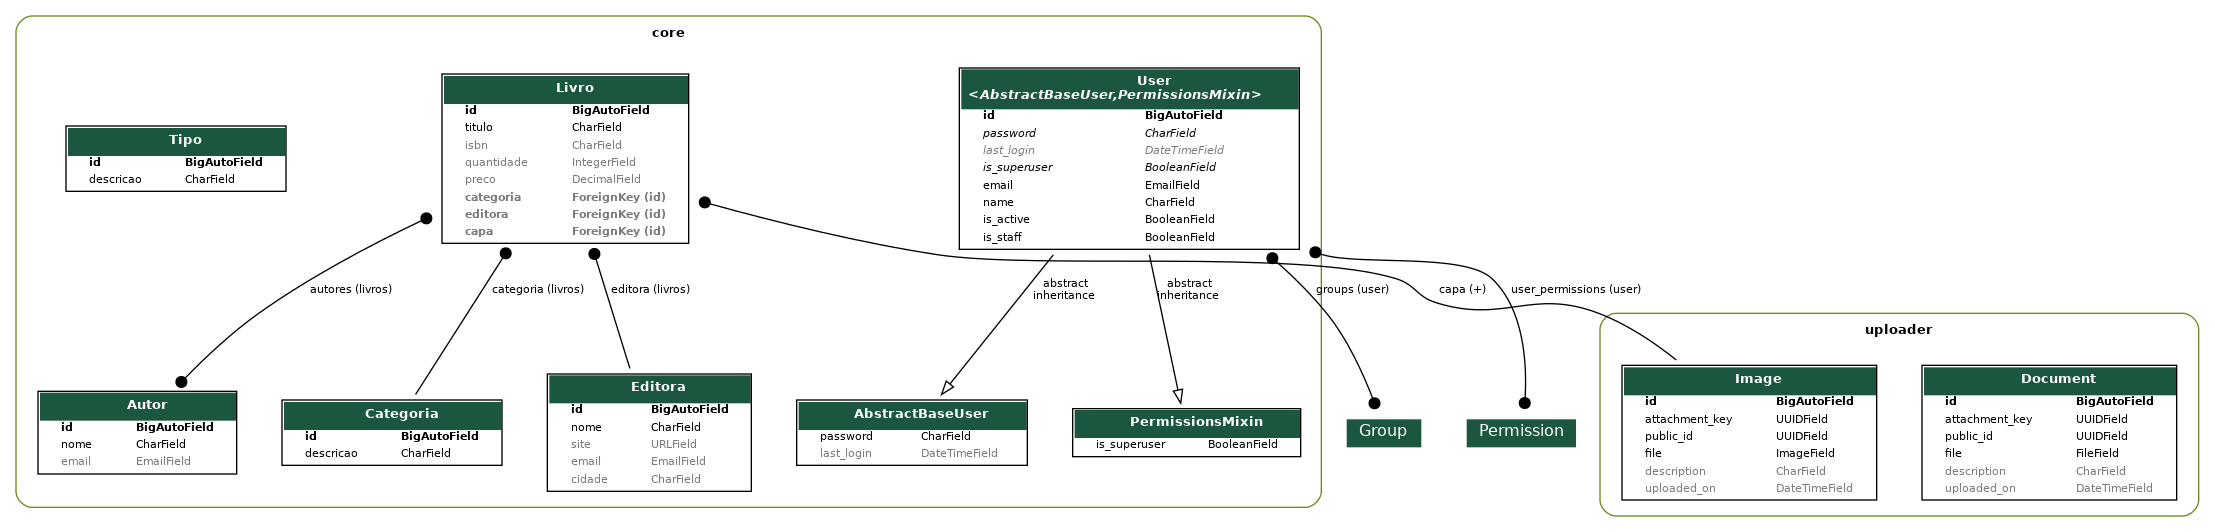
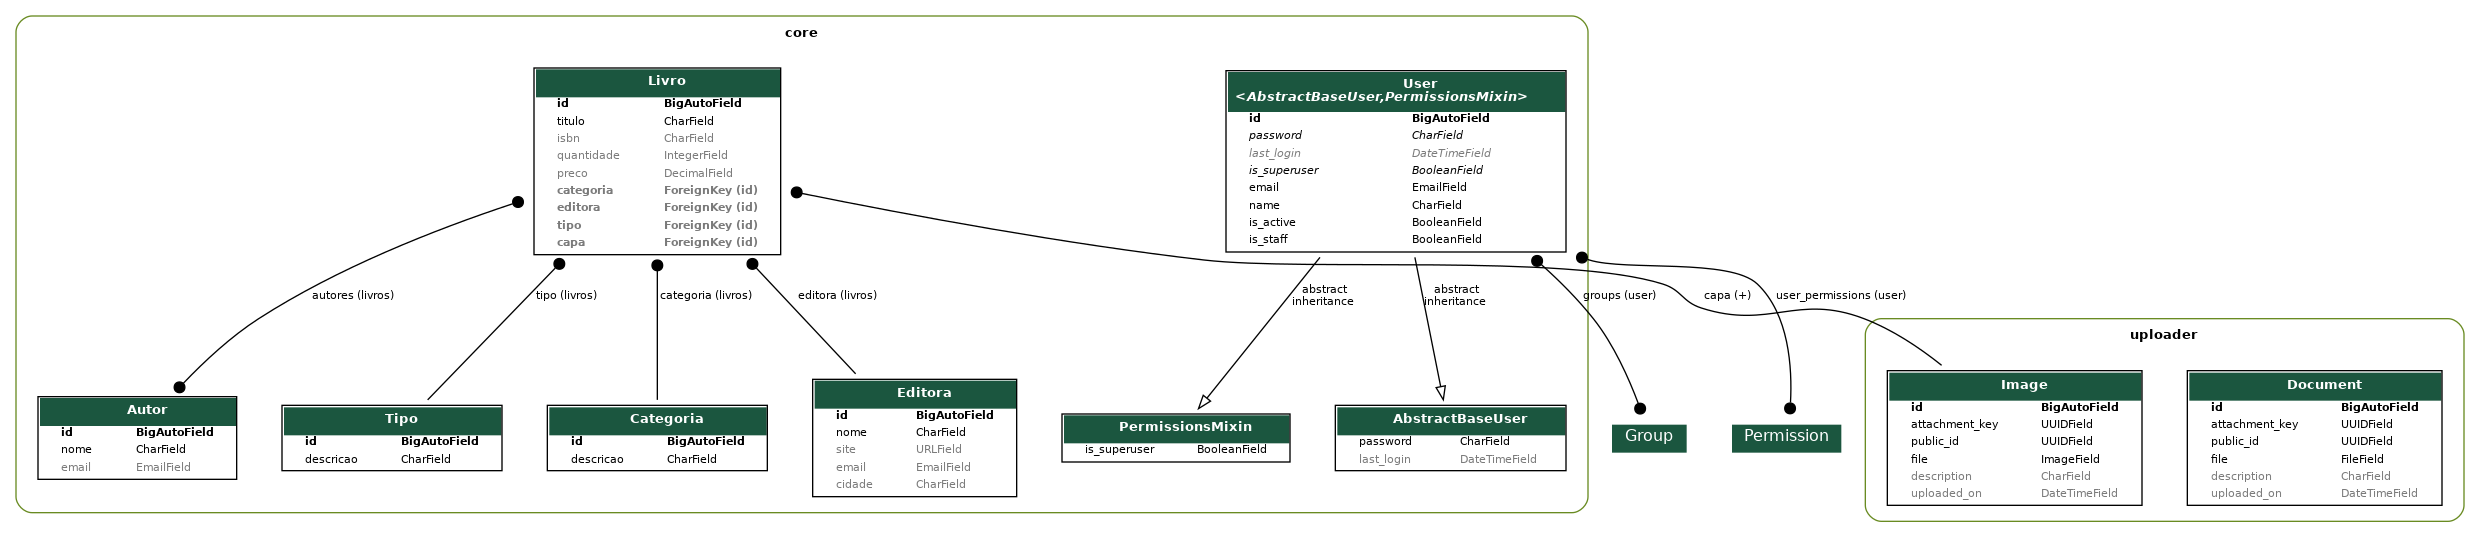
Livro + tipo

diff --git a/core/migrations/0016_livro_tipo.py b/core/migrations/0016_livro_tipo.py
@@ -1,0 +1,25 @@
+# Generated by Django 5.1 on 2024-08-27 17:45
+
+import django.db.models.deletion
+from django.db import migrations, models
+
+
+class Migration(migrations.Migration):
+
+    dependencies = [
+        ("core", "0015_tipo"),
+    ]
+
+    operations = [
+        migrations.AddField(
+            model_name="livro",
+            name="tipo",
+            field=models.ForeignKey(
+                blank=True,
+                null=True,
+                on_delete=django.db.models.deletion.PROTECT,
+                related_name="livros",
+                to="core.tipo",
+            ),
+        ),
+    ]
